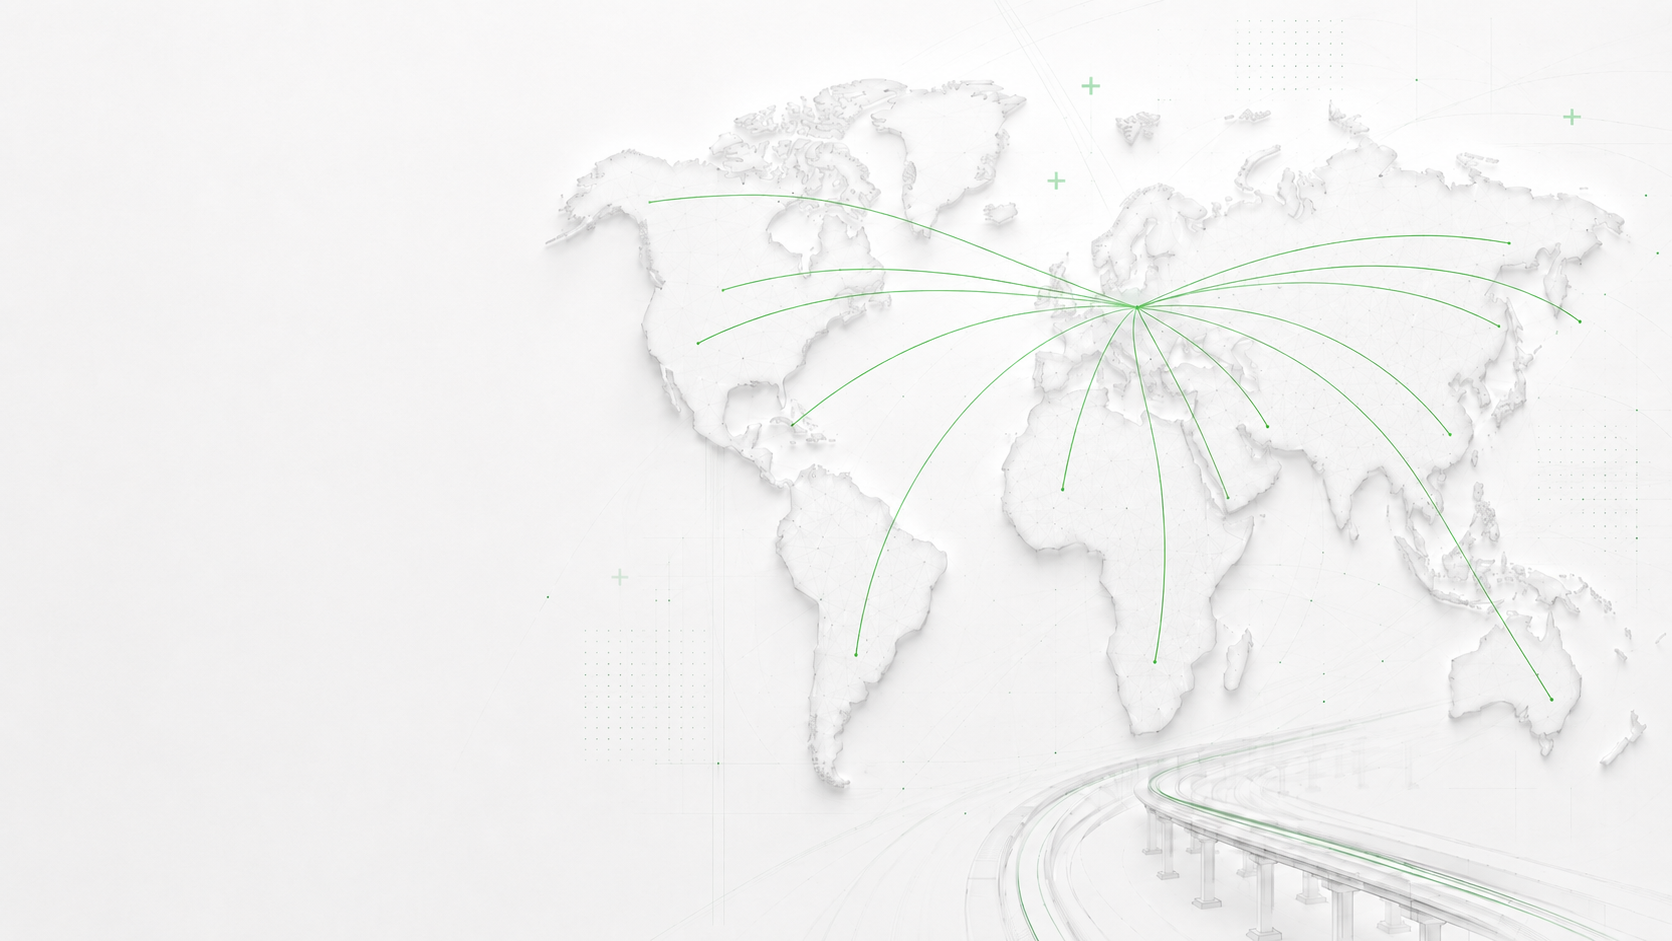
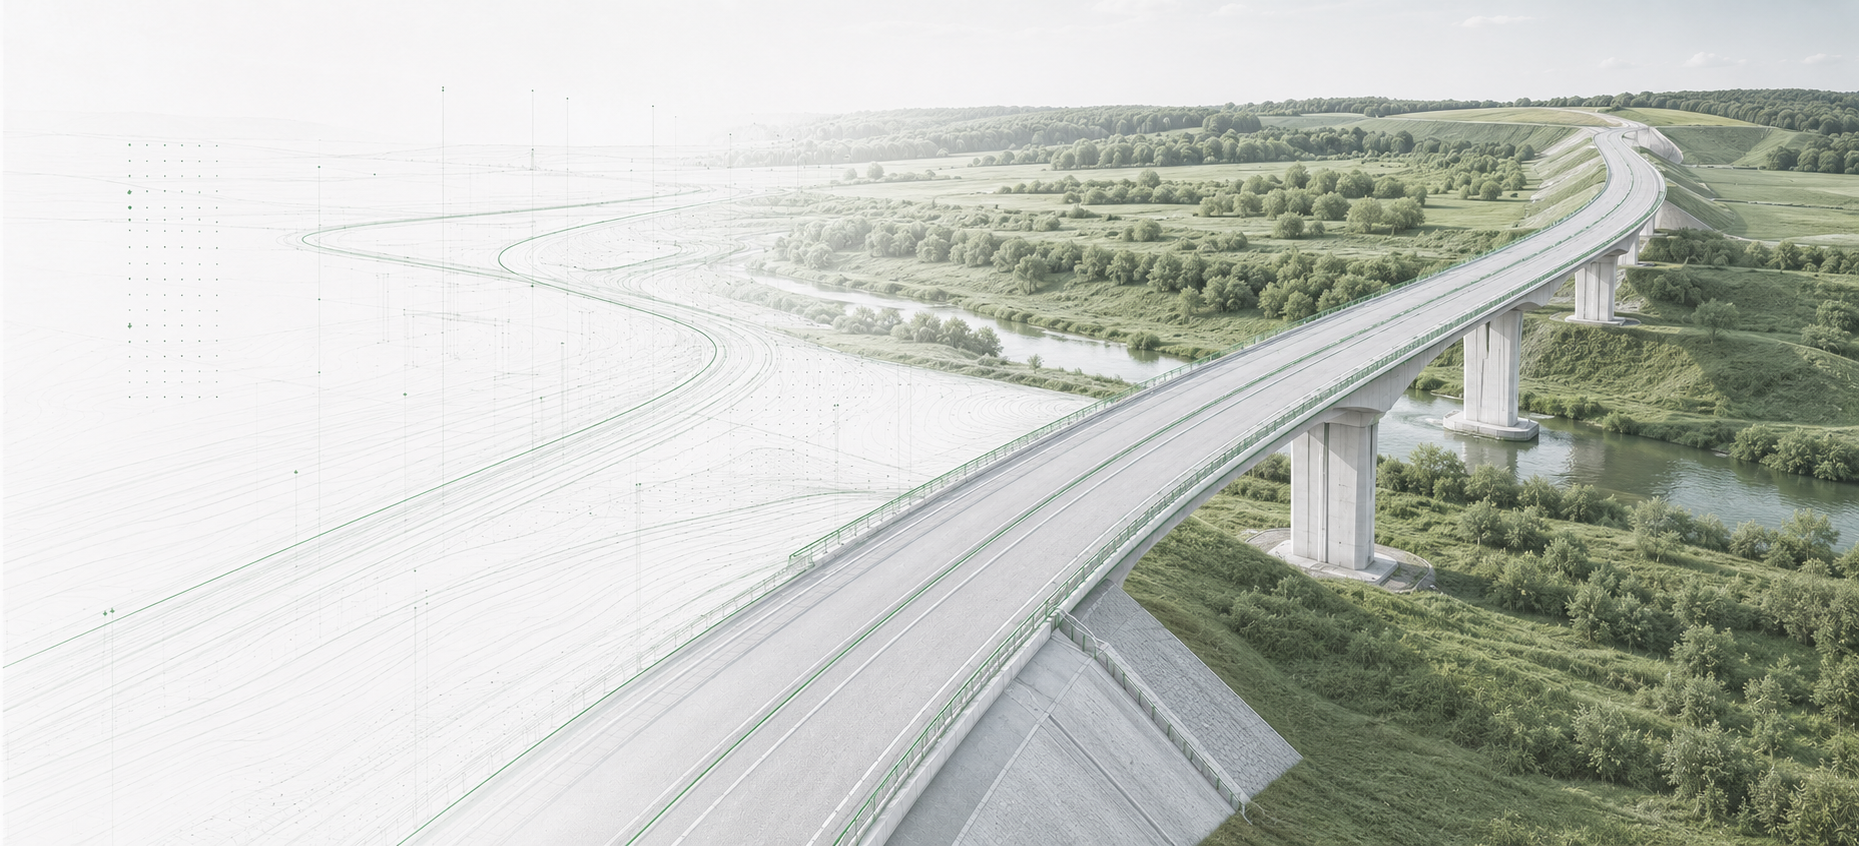
fix: updates

diff --git a/components/pages/HomePage.tsx b/components/pages/HomePage.tsx
@@ -4,7 +4,6 @@ import { studioInfo } from '@/lib/mockData'
 import { getFeaturedProjects, getTeam } from '@/lib/sanity'
 import ProjectCard from '@/components/ProjectCard/ProjectCard'
 import ContactForm from '@/components/ContactForm/ContactForm'
-import CooperationTabs from '@/components/CooperationTabs/CooperationTabs'
 import { Dictionary } from '@/lib/dictionaries'
 import styles from '@/styles/home.module.css'
 
@@ -217,15 +216,6 @@ export default async function HomePage({ lang, dict }: Props) {
             </div>
           ))}
         </div>
-      </section>
-
-      {/* WSPÓŁPRACA */}
-      <section className={styles.cooperation} id="wspolpraca">
-        <div className={styles.sectionCenter}>
-          <span className={styles.eyebrow}>{d.cooperation.eyebrow}</span>
-          <h2 className={styles.sectionTitle}>{d.cooperation.title}</h2>
-        </div>
-        <CooperationTabs dict={d.cooperation} />
       </section>
 
       {/* KONTAKT */}
